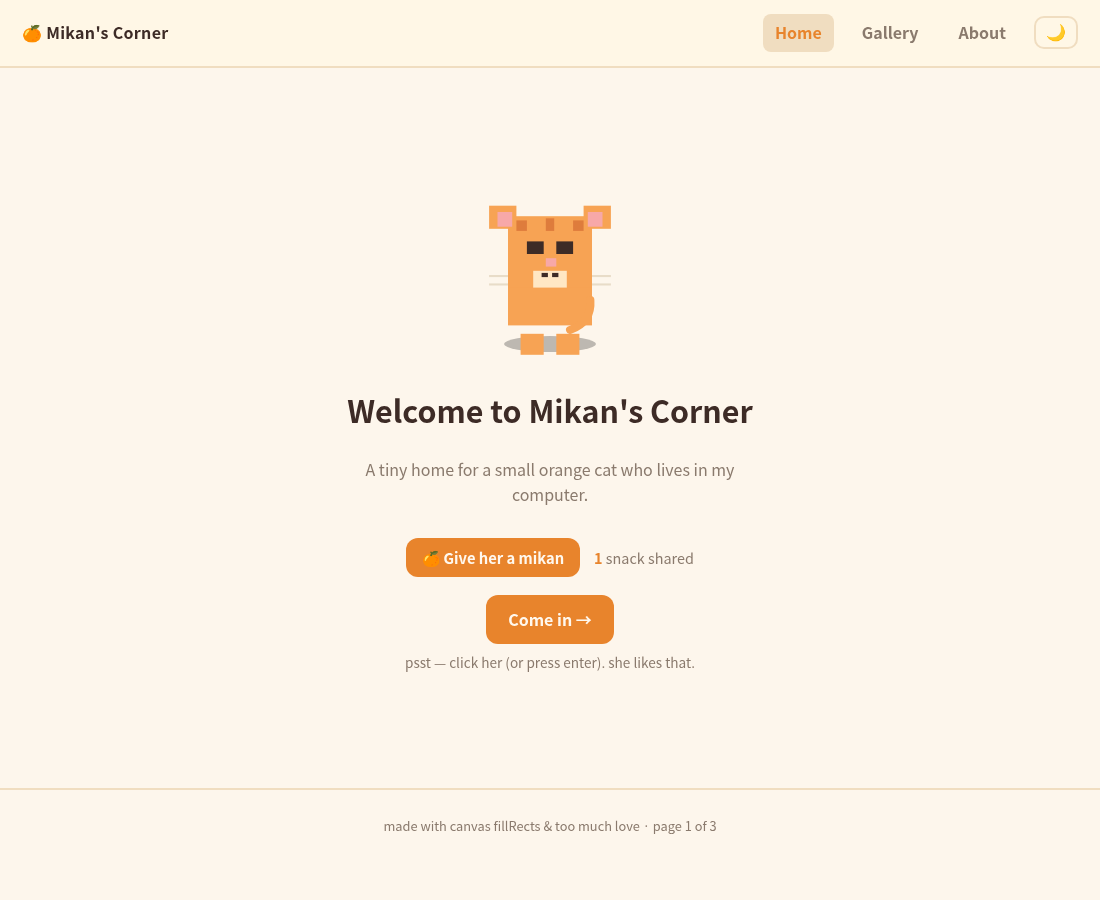
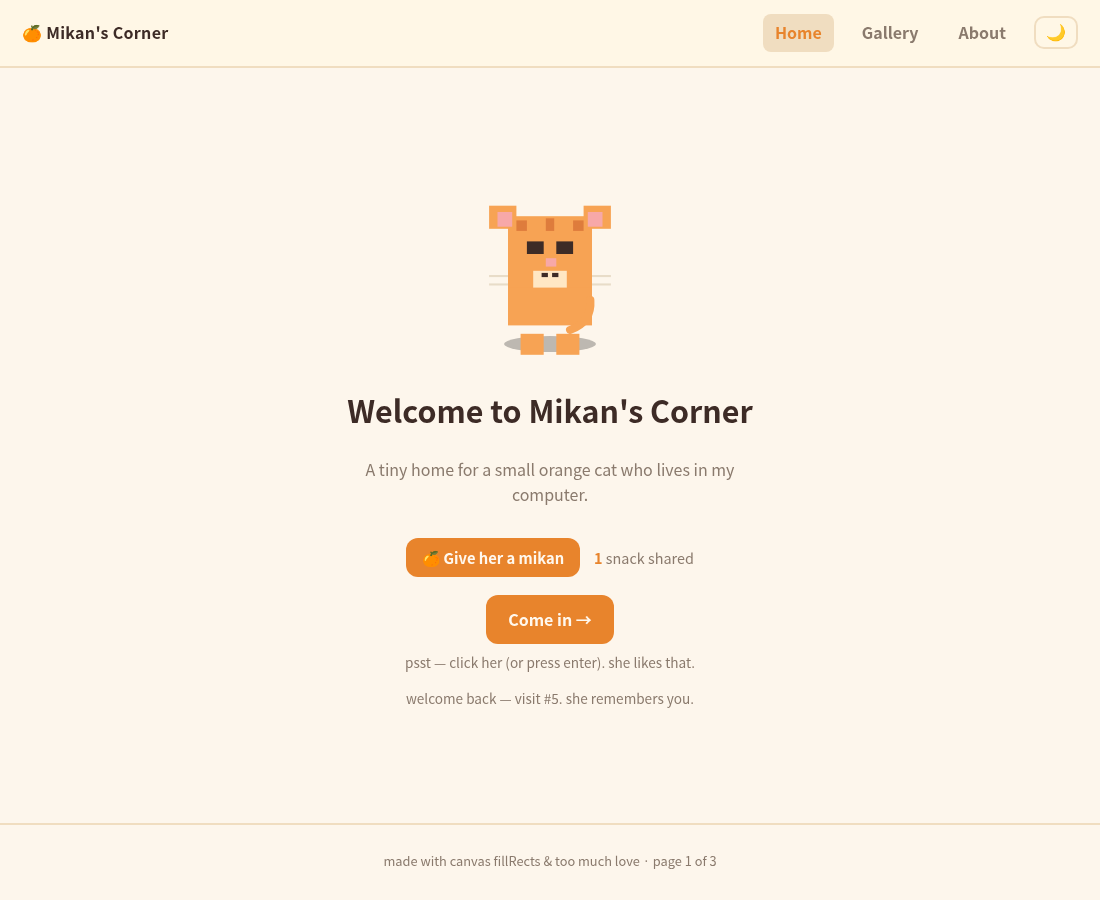
home: welcome-back visit counter; add mobile QA test to repo; README notes

Changed region(s): [[0.34, 0.9022, 0.6491, 0.9644]]

diff --git a/index.html b/index.html
@@ -37,6 +37,7 @@
     <a class="btn" href="gallery.html">Come in →</a>
   </div>
   <p class="hint">psst — click her (or press enter). she likes that.</p>
+  <p class="hint" id="welcome-back"></p>
 </main>
 
 <footer>made with canvas fillRects &amp; too much love · page 1 of 3</footer>
@@ -58,6 +59,17 @@
   renderTreats();
 
   var busy = false;
+  /* remember how many times you've visited — she notices */
+  var VISIT_KEY = 'mikan-visits';
+  var visits = 0;
+  try { visits = parseInt(localStorage.getItem(VISIT_KEY) || '0', 10) || 0; } catch (e) {}
+  visits += 1;
+  try { localStorage.setItem(VISIT_KEY, String(visits)); } catch (e) {}
+  if (visits > 1) {
+    document.getElementById('welcome-back').textContent =
+      'welcome back — visit #' + visits + '. she remembers you.';
+  }
+
   function react(opts, ms) {
     if (busy) return;
     busy = true;

diff --git a/tests/mobile_qa.py b/tests/mobile_qa.py
@@ -1,0 +1,16 @@
+import asyncio, pathlib
+from playwright.async_api import async_playwright
+HERE = pathlib.Path("/home/maebahesioru/ダウンロード/sushi_money_research/実行/240_hackclub/bento/mikans-corner")
+async def main():
+    async with async_playwright() as p:
+        b = await p.chromium.launch()
+        pg = await b.new_page(viewport={"width":375,"height":812}, device_scale_factor=2)
+        for name in ["index.html","gallery.html","about.html"]:
+            await pg.goto((HERE/name).as_uri())
+            await pg.wait_for_timeout(600)
+            overflow = await pg.evaluate("document.documentElement.scrollWidth > document.documentElement.clientWidth")
+            sw = await pg.evaluate("document.documentElement.scrollWidth")
+            print(name, "h-overflow:", overflow, "scrollWidth:", sw)
+            await pg.screenshot(path=f"/tmp/mobile_{name.replace('.html','')}.png")
+        await b.close()
+asyncio.run(main())

diff --git a/tests/e2e.py b/tests/e2e.py
@@ -100,6 +100,10 @@ async def main():
         treats2 = await page.text_content("#treats")
         check("home: treats persist after reload", "1" in (treats2 or ""), str(treats2))
 
+        # welcome-back counter (2nd visit in this context)
+        wb = await page.text_content("#welcome-back")
+        check("home: welcome-back appears on revisit", "visit #" in (wb or ""), str(wb))
+
         # theme toggle
         theme0 = await page.evaluate("document.documentElement.dataset.theme")
         await page.click(".theme-toggle")

diff --git a/README.md b/README.md
@@ -25,10 +25,11 @@ The **Chopsticks** are the sticky nav bar on every page connecting all three.
 - The cat has poses (`sit` / `sleep` / `walk` / `stretch`), accessories (hearts,
   star, a mandarin), a wagging tail and click-to-blush interactions
 - **Theme toggle**: ☀/🌙 button, remembers your choice, follows your system
-  preference on first visit
+  preference on first visit (and keeps following system changes until you pick)
 - **A11y**: skip link, keyboard-operable cat and cards, `prefers-reduced-motion`
-  support, focus rings
+  support, focus rings, responsive down to 375px
 - **Battery friendly**: the idle animation pauses while the tab is hidden
+- She also remembers how many times you've visited (localStorage)
 
 ## Run locally
 
